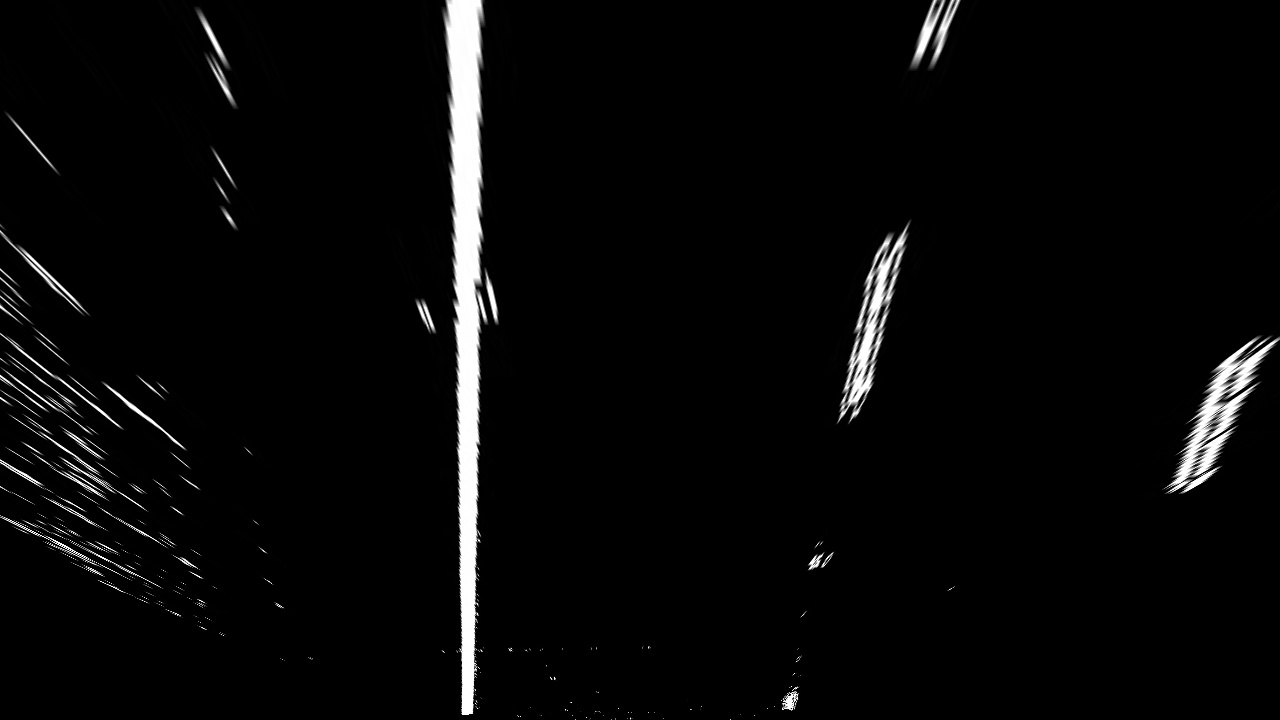
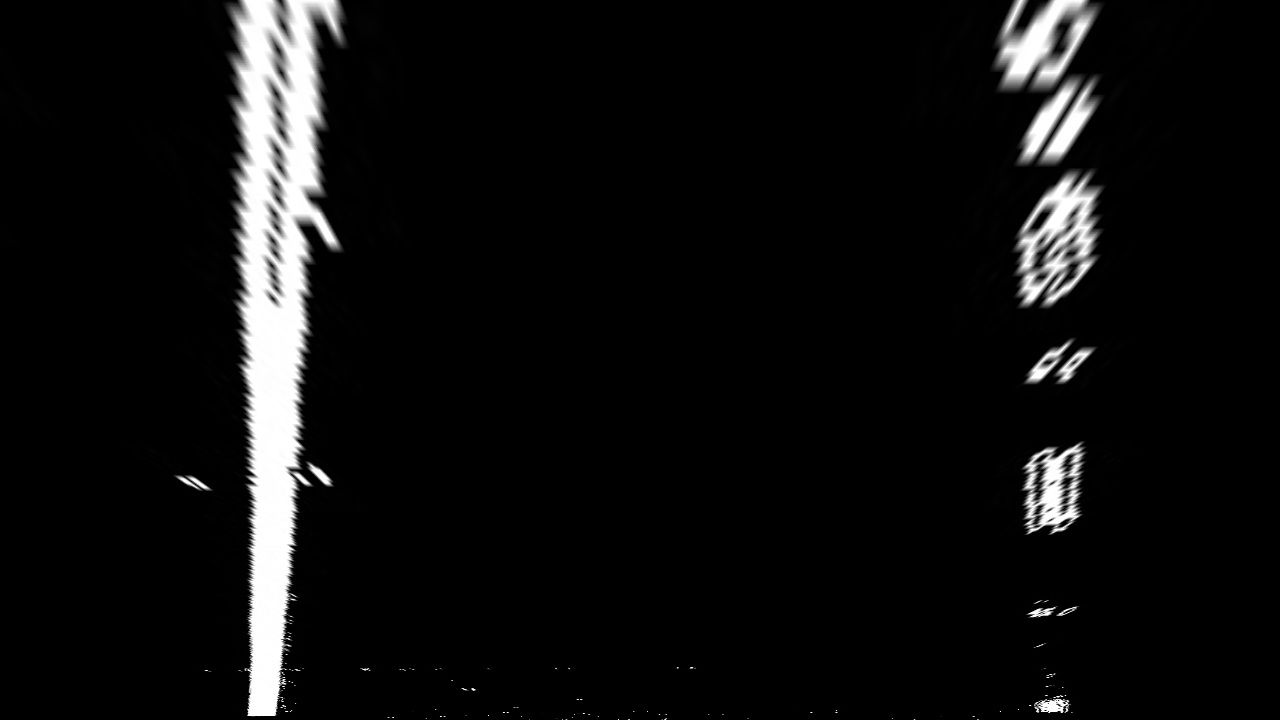
lane extraction and tweaks to the perspective transformer

diff --git a/advancedlanelines/lane.py b/advancedlanelines/lane.py
@@ -1,0 +1,138 @@
+import cv2
+import numpy as np
+from line import Line
+
+
+class LaneExtractor():
+
+    def __init__(self):
+        self.left_line = Line()
+        self.right_line = Line()
+
+    def extract_lane_from_scratch_and_save(self, binary_warped_path, out_path):
+        binary_warped = cv2.imread(binary_warped_path)
+        binary_warped = cv2.cvtColor(binary_warped, cv2.COLOR_RGB2GRAY)
+        out_img, _, _, _, _ = self.extract_lane_from_scratch(binary_warped)
+        cv2.imwrite(out_path, out_img)
+
+    def extract_lane(self, binary_warped):
+        if self.left_line.detected and self.right_line.detected:
+            left_fitx, left_fit, right_fitx, right_fit = self.extract_lanes_based_on_previous(binary_warped)
+        else:
+            _, left_fitx, left_fit, right_fitx, right_fit = self.extract_lane_from_scratch(binary_warped, [], [])
+        # update the left and right lines
+        self.left_line.update(left_fit, left_fitx)
+        self.right_line.update(right_fit, right_fitx)
+
+    def extract_lane_from_scratch(self, binary_warped):
+        """
+        This implementation is as per the "Finding Lines" lesson
+        """
+        # Assuming you have created a warped binary image called "binary_warped"
+        # Take a histogram of the bottom half of the image
+        histogram = np.sum(binary_warped[binary_warped.shape[0]/2:,:], axis=0)
+        print histogram
+        # Create an output image to draw on and  visualize the result
+        out_img = np.dstack((binary_warped, binary_warped, binary_warped))*255
+        # Find the peak of the left and right halves of the histogram
+        # These will be the starting point for the left and right lines
+        midpoint = np.int(histogram.shape[0]/2)
+        leftx_base = np.argmax(histogram[:midpoint])
+        rightx_base = np.argmax(histogram[midpoint:]) + midpoint
+
+        # Choose the number of sliding windows
+        # with trail and error arrived at a higher numer of windows
+        nwindows = 150
+        # Set height of windows
+        window_height = np.int(binary_warped.shape[0]/nwindows)
+        # Identify the x and y positions of all nonzero pixels in the image
+        nonzero = binary_warped.nonzero()
+        nonzeroy = np.array(nonzero[0])
+        nonzerox = np.array(nonzero[1])
+        # Current positions to be updated for each window
+        leftx_current = leftx_base
+        rightx_current = rightx_base
+        # Set the width of the windows +/- margin
+        margin = 100
+        # Set minimum number of pixels found to recenter window
+        minpix = 50
+        # Create empty lists to receive left and right lane pixel indices
+        left_lane_inds = []
+        right_lane_inds = []
+
+        # Step through the windows one by one
+        for window in range(nwindows):
+            # Identify window boundaries in x and y (and right and left)
+            win_y_low = binary_warped.shape[0] - (window+1)*window_height
+            win_y_high = binary_warped.shape[0] - window*window_height
+            win_xleft_low = leftx_current - margin
+            win_xleft_high = leftx_current + margin
+            win_xright_low = rightx_current - margin
+            win_xright_high = rightx_current + margin
+            # Draw the windows on the visualization image
+            cv2.rectangle(out_img,(win_xleft_low,win_y_low),(win_xleft_high,win_y_high),(0,255,0), 2)
+            cv2.rectangle(out_img,(win_xright_low,win_y_low),(win_xright_high,win_y_high),(0,255,0), 2)
+            # Identify the nonzero pixels in x and y within the window
+            good_left_inds = ((nonzeroy >= win_y_low) & (nonzeroy < win_y_high) & (nonzerox >= win_xleft_low) & (nonzerox < win_xleft_high)).nonzero()[0]
+            good_right_inds = ((nonzeroy >= win_y_low) & (nonzeroy < win_y_high) & (nonzerox >= win_xright_low) & (nonzerox < win_xright_high)).nonzero()[0]
+            # Append these indices to the lists
+            left_lane_inds.append(good_left_inds)
+            right_lane_inds.append(good_right_inds)
+            # If you found > minpix pixels, recenter next window on their mean position
+            if len(good_left_inds) > minpix:
+                leftx_current = np.int(np.mean(nonzerox[good_left_inds]))
+            if len(good_right_inds) > minpix:
+                rightx_current = np.int(np.mean(nonzerox[good_right_inds]))
+
+        # Concatenate the arrays of indices
+        left_lane_inds = np.concatenate(left_lane_inds)
+        right_lane_inds = np.concatenate(right_lane_inds)
+
+        # Extract left and right line pixel positions
+        leftx = nonzerox[left_lane_inds]
+        lefty = nonzeroy[left_lane_inds]
+        rightx = nonzerox[right_lane_inds]
+        righty = nonzeroy[right_lane_inds]
+
+        # Fit a second order polynomial to each
+        left_fit = np.polyfit(lefty, leftx, 2)
+        right_fit = np.polyfit(righty, rightx, 2)
+
+        # Generate x and y values for plotting
+        ploty = np.linspace(0, binary_warped.shape[0]-1, binary_warped.shape[0] )
+        left_fitx = left_fit[0]*ploty**2 + left_fit[1]*ploty + left_fit[2]
+        right_fitx = right_fit[0]*ploty**2 + right_fit[1]*ploty + right_fit[2]
+
+        out_img[nonzeroy[left_lane_inds], nonzerox[left_lane_inds]] = [255, 0, 0]
+        out_img[nonzeroy[right_lane_inds], nonzerox[right_lane_inds]] = [0, 0, 255]
+
+        return out_img, left_fitx, left_fit, right_fitx, right_fit
+
+    def extract_lanes_based_on_previous(self, binary_warped, left_fit, right_fit):
+        """
+        Once again implementation is as from the finding_lines
+        """
+        # Assume you now have a new warped binary image
+        # from the next frame of video (also called "binary_warped")
+        # It's now much easier to find line pixels!
+        nonzero = binary_warped.nonzero()
+        nonzeroy = np.array(nonzero[0])
+        nonzerox = np.array(nonzero[1])
+        margin = 100
+        left_lane_inds = ((nonzerox > (left_fit[0]*(nonzeroy**2) + left_fit[1]*nonzeroy + left_fit[2] - margin)) & (nonzerox < (left_fit[0]*(nonzeroy**2) + left_fit[1]*nonzeroy + left_fit[2] + margin)))
+        right_lane_inds = ((nonzerox > (right_fit[0]*(nonzeroy**2) + right_fit[1]*nonzeroy + right_fit[2] - margin)) & (nonzerox < (right_fit[0]*(nonzeroy**2) + right_fit[1]*nonzeroy + right_fit[2] + margin)))
+
+        # Again, extract left and right line pixel positions
+        leftx = nonzerox[left_lane_inds]
+        lefty = nonzeroy[left_lane_inds]
+        rightx = nonzerox[right_lane_inds]
+        righty = nonzeroy[right_lane_inds]
+        # Fit a second order polynomial to each
+        left_fit = np.polyfit(lefty, leftx, 2)
+        right_fit = np.polyfit(righty, rightx, 2)
+        # Generate x and y values for plotting
+        ploty = np.linspace(0, binary_warped.shape[0]-1, binary_warped.shape[0] )
+        left_fitx = left_fit[0]*ploty**2 + left_fit[1]*ploty + left_fit[2]
+        right_fitx = right_fit[0]*ploty**2 + right_fit[1]*ploty + right_fit[2]
+
+        return left_fitx, left_fit, right_fitx, right_fit

diff --git a/advancedlanelines/perspective.py b/advancedlanelines/perspective.py
@@ -40,43 +40,27 @@ class PerspectiveTransformer:
         # picking roughly a trapezoid that would contain a lane
         img_x = img_size[0]
         img_y = img_size[1]
-        # some trial and error
-        # src = np.float32([
-        #     [img_x * 0.2, img_y],
-        #     [int(img_x * 0.466), img_y * 0.625],
-        #     [int(img_x * 0.535), img_y * 0.625],
-        #     [img_x * 0.85, img_y],
-        # ])
-        # for 1280 x 720 image src would be
-        # [[  256.   720.]
-        #  [  596.   450.]
-        #  [  684.   450.]
-        #  [ 1088.   720.]]
-        # for 1280 x 720 image dst is desired to be
-        # [[  100.   620.]
-        # [  100.   100.]
-        # [ 1180.   100.]
-        # [ 1180.   620.]]
-        # x = 100
-        # dst = np.float32([
-        #     [x, img_size[1]-x],
-        #     [x, x],
-        #     [img_size[0]-x, x],
-        #     [img_size[0]-x, img_size[1]-x]
-        # ])
 
-        # picking roughly a trapezoid that would contain a lane. the coefficients are achieved
-        # with some trial and error
+        # [1]
+        # with some trial and error picking roughly a trapezoid that would contain a lane
         src = np.float32([
             [img_x * 0.2, img_y],
-            [int(img_x * 0.379), img_y * 0.75],
-            [int(img_x * 0.61), img_y * 0.75],
+            [int(img_x * 0.468), img_y * 0.625],
+            [int(img_x * 0.534), img_y * 0.625],
             [img_x * 0.85, img_y],
         ])
+        # for 1280 x 720 image src would be
+        # [[  256.   720.]
+        #  [  599.   450.]
+        #  [  683.   450.]
+        #  [ 1088.   720.]]
+        new_top_left = np.array([src[0][0], 0])
+        new_top_right = np.array([src[3][0], 0])
+        x = 50
         dst = np.float32([
-            [src[1][0], src[0][1]],
-            src[1],
-            src[2],
-            [src[2][0], src[3][1]]
+            [src[0][0] + x, src[0][1]],
+            [src[0][0] + x, 0],
+            [src[3][0] - x, 0],
+            [src[3][0] - x, src[3][1]]
         ])
         return src, dst

diff --git a/advancedlanelines/line.py b/advancedlanelines/line.py
@@ -1,0 +1,35 @@
+import numpy as np
+
+
+class Line():
+    def __init__(self):
+        # was the line detected in the last iteration?
+        self.detected = False
+        # x values of the last n fits of the line
+        self.recent_xfitted = []
+        #average x values of the fitted line over the last n iterations
+        self.bestx = None
+        #polynomial coefficients averaged over the last n iterations
+        self.best_fit = None
+        #polynomial coefficients for the most recent fit
+        self.current_fit = [np.array([False])]
+        #radius of curvature of the line in some units
+        self.radius_of_curvature = None
+        #distance in meters of vehicle center from the line
+        self.line_base_pos = None
+        #difference in fit coefficients between last and new fits
+        self.diffs = np.array([0,0,0], dtype='float')
+        #x values for detected line pixels
+        self.allx = None
+        #y values for detected line pixels
+        self.ally = None
+
+        self.buffer_idx = 0
+
+    def update(self, fit, fitx):
+        if not fit or not fitx:
+            return
+        self.current_fit[self.buffer_idx] = fit
+        self.recent_xfitted[self.buffer_idx] = fitx
+        self.detected = True
+        self.buffer_idx += 1

diff --git a/advancedlanelines/main.py b/advancedlanelines/main.py
@@ -1,6 +1,7 @@
 from camera_utils import CameraCalibrator, ImageUndistorter
 from image_binary import ImageBinarizer
 from perspective import PerspectiveTransformer
+from lane import LaneExtractor
 
 
 def calibrate_camera_and_undistort():
@@ -52,8 +53,16 @@ def perspective_transform():
     )
 
 
+def extract_lane():
+    extractor = LaneExtractor()
+    extractor.extract_lane_from_scratch_and_save(
+        binary_warped_path='../output_images/straight_lines1_undistort_binary_warped.jpg',
+        out_path='../output_images/straight_lines1_undistort_binary_warped_lanes.jpg'
+    )
+
+
 if __name__ == '__main__':
     # calibrate_camera_and_undistort()
     # binarize()
     perspective_transform()
-
+    extract_lane()

diff --git a/README.md b/README.md
@@ -71,3 +71,14 @@ Undistorted | Warped
 ------------|--------
 ![straight_lines1_undistort.jpg](./output_images/straight_lines1_undistort.jpg) | ![straight_lines1_undistort_warped.jpg](./output_images/straight_lines1_undistort_warped.jpg)
 ![straight_lines1_undistort_binary.jpg](./output_images/straight_lines1_undistort_binary.jpg) | ![straight_lines1_undistort_binary_warped.jpg](./output_images/straight_lines1_undistort_binary_warped.jpg)
+
+### Lane extraction
+Lane extraction is based on the implementation provided in lecture slides. [LaneExtractor](./advancedlines/lane.py) and
+uses [Line](./advanced/line.py) to store interim state. [LaneExtractor](./advancedlines/lane.py) has 2 methods `extract_lane_from_scratch` and
+`extract_lanes_based_on_previous` that are the actual lane extraction method based on determining historgam to determine the start of lines
+and then using a window method to move to the top of the frame to detect the entire line.
+
+Without | With
+--------|------
+![straight_lines1_undistort_binary_warped.jpg](./output_images/straight_lines1_undistort_binary_warped.jpg) | ![straight_lines1_undistort_binary_warped_lanes.jpg](./output_images/straight_lines1_undistort_binary_warped_lanes.jpg)
+
